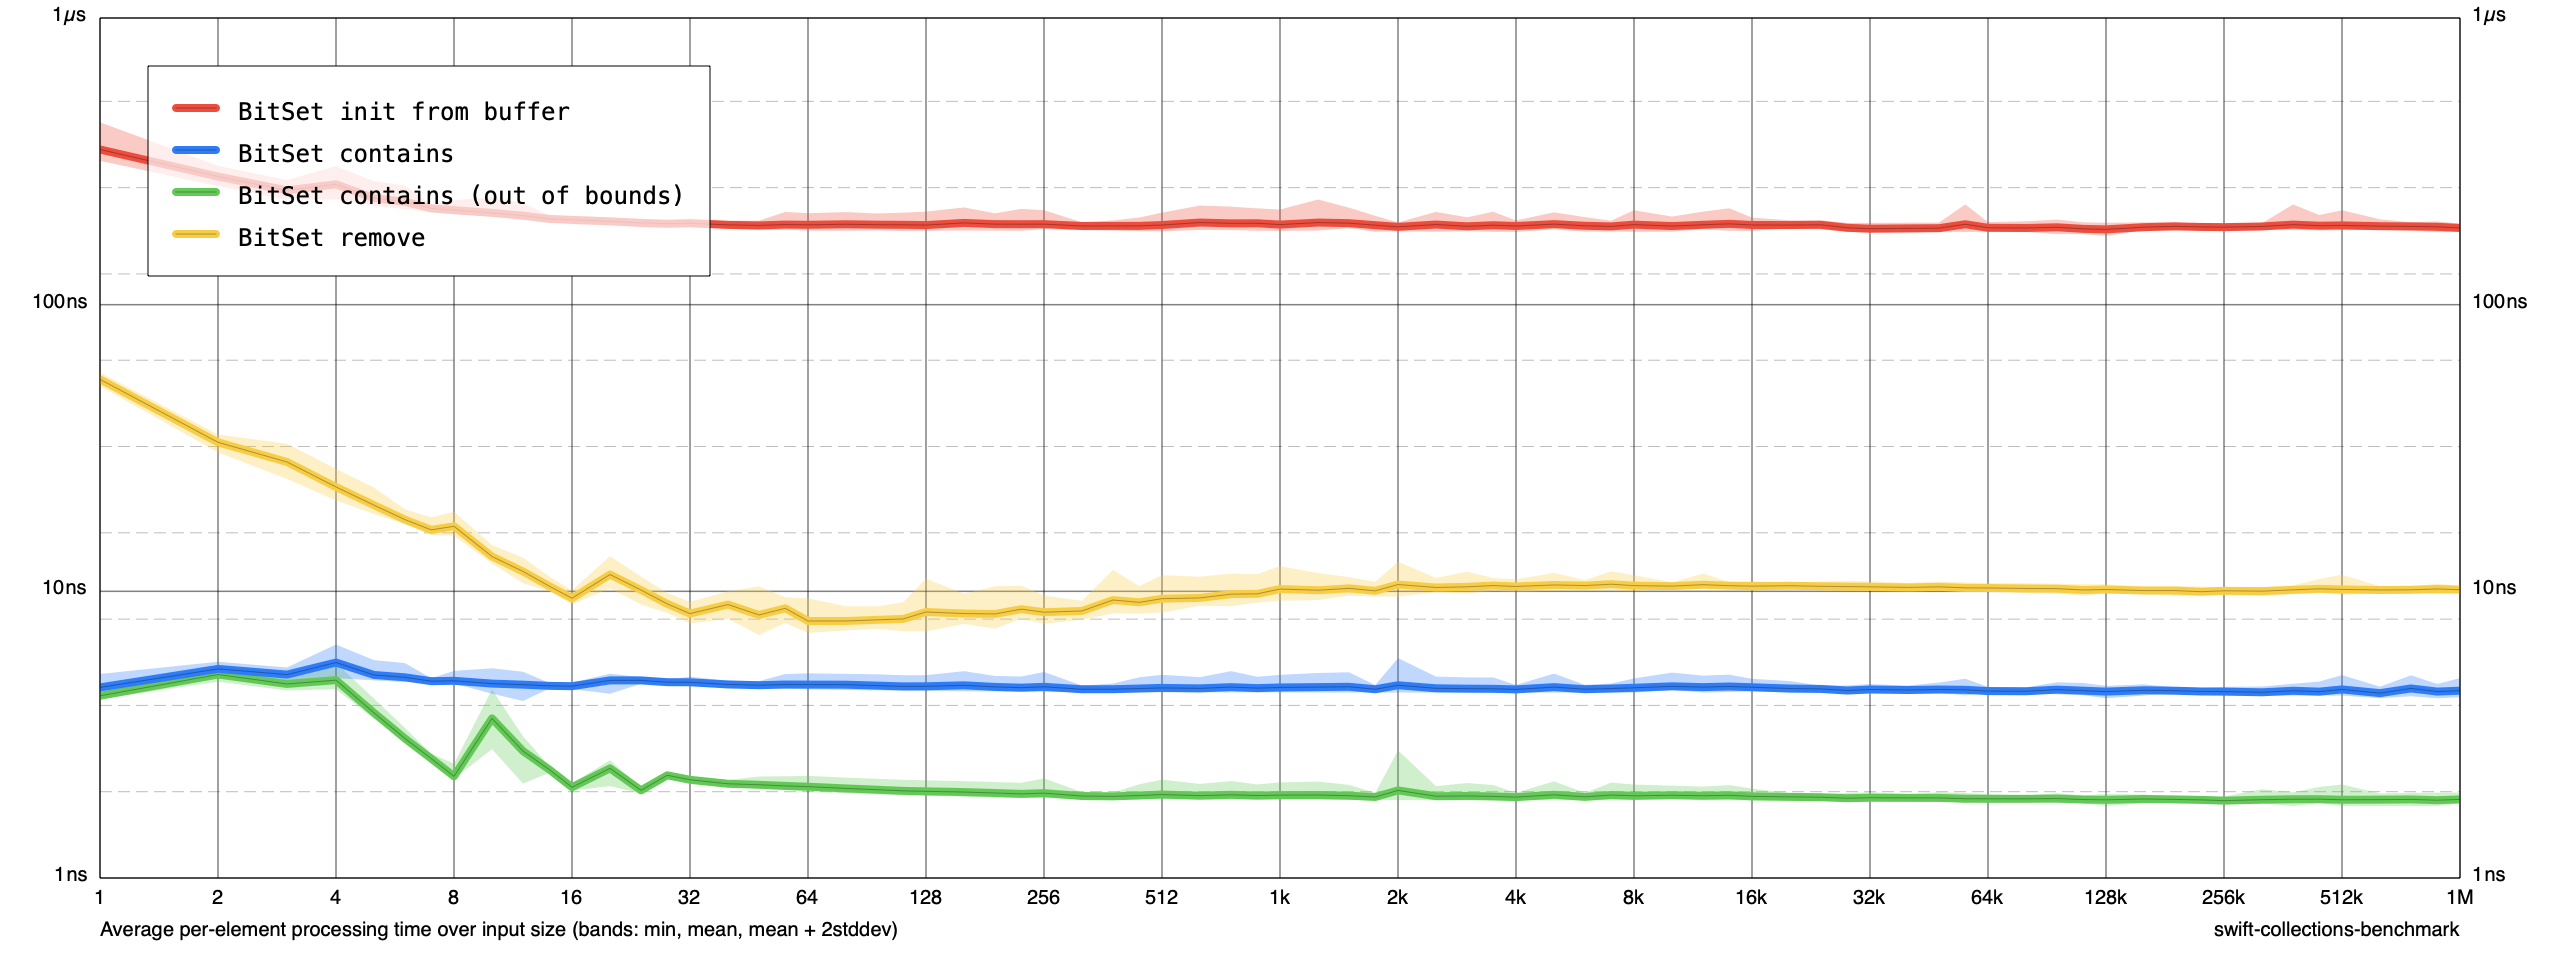
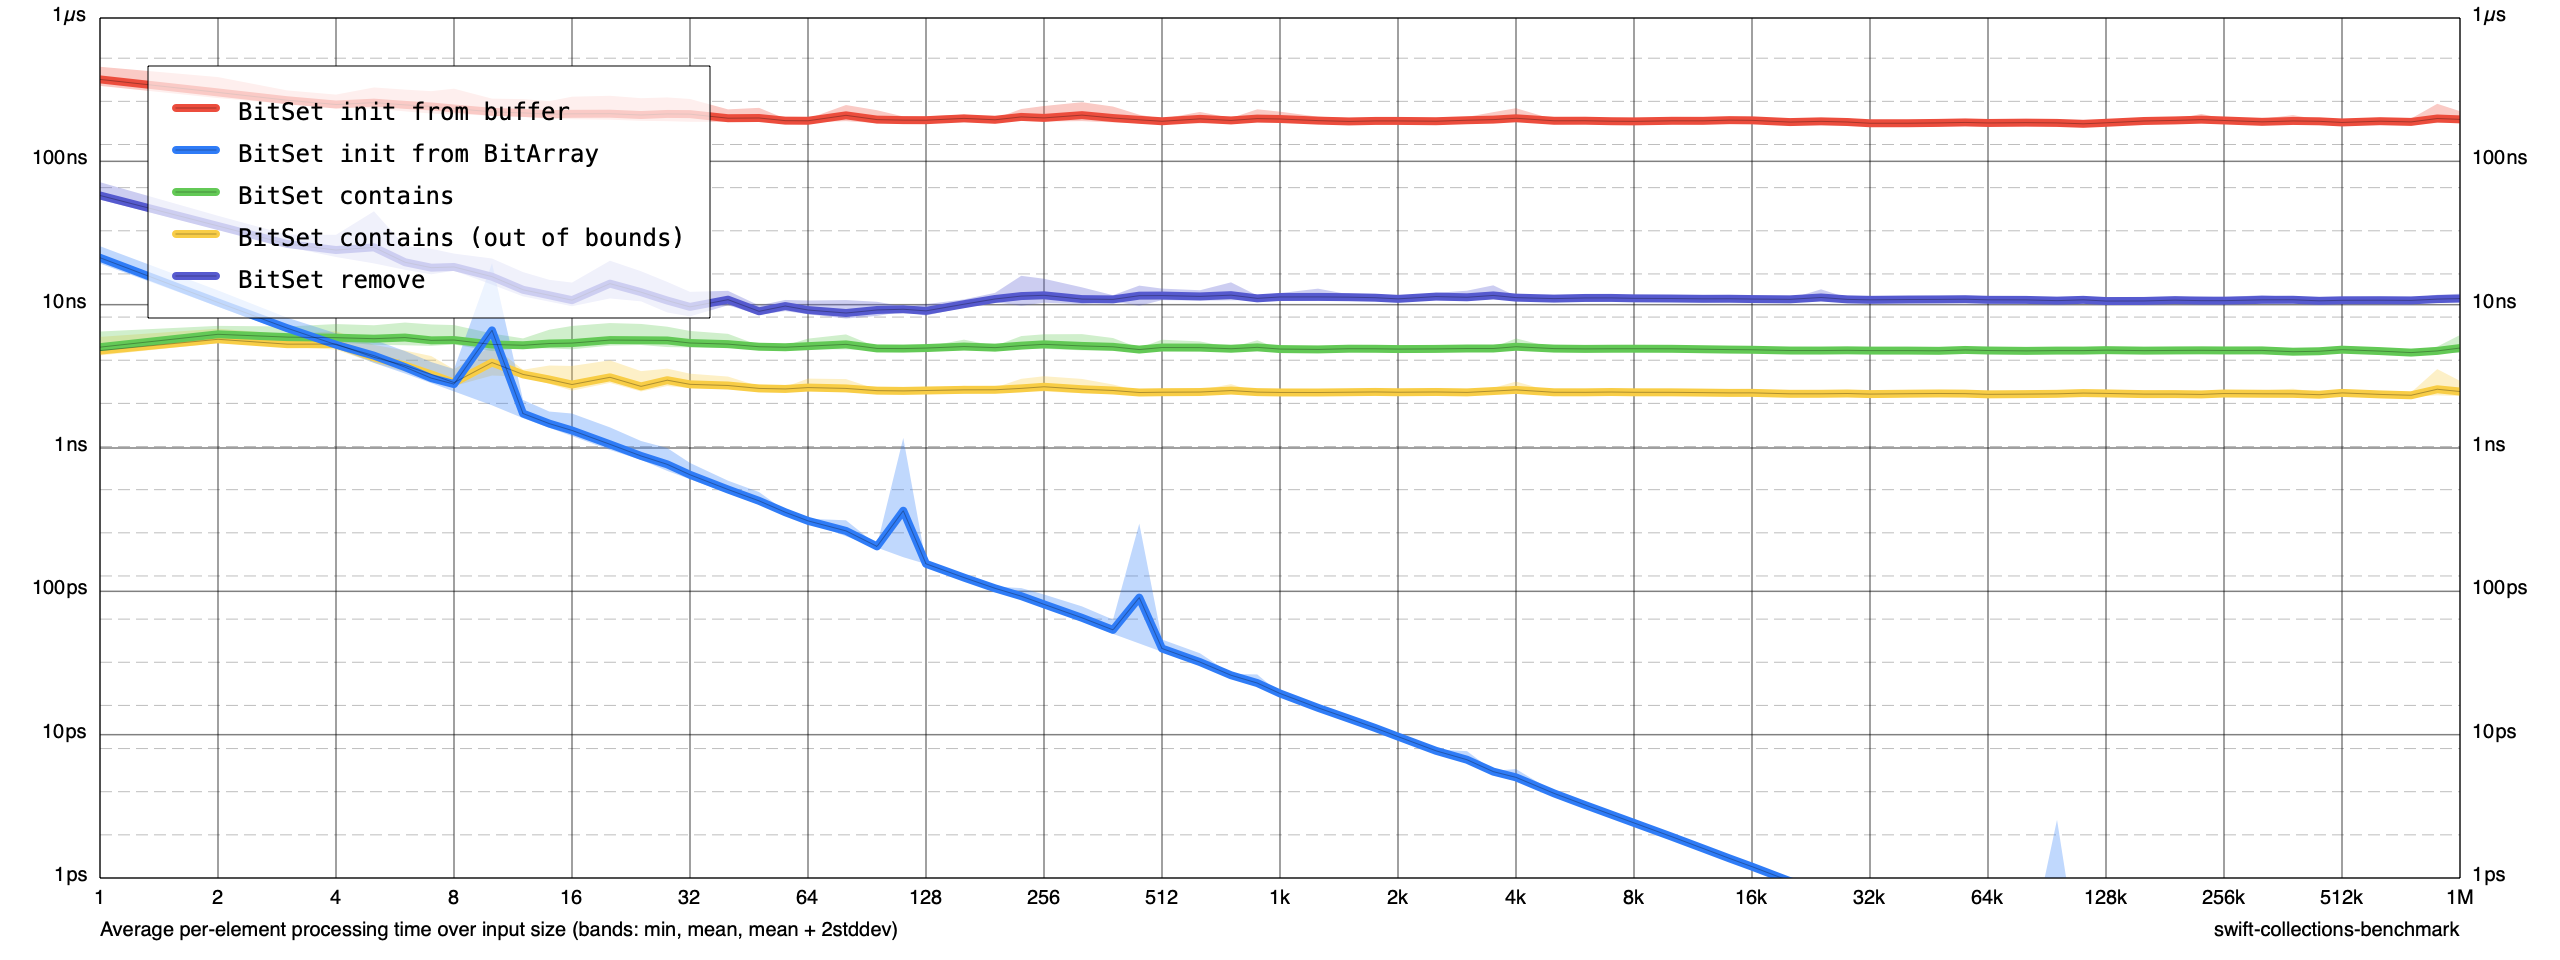
BitSet init from BitArray benchmark

diff --git a/Benchmarks/Benchmarks/BitsetBenchmarks.swift b/Benchmarks/Benchmarks/BitsetBenchmarks.swift
@@ -13,6 +13,7 @@ import CollectionsBenchmark
 import BitArrayModule
 
 extension Benchmark {
+  
   public mutating func addBitSetBenchmarks() {
     self.addSimple(
       title: "BitSet init from buffer",
@@ -23,9 +24,10 @@ extension Benchmark {
     
     self.add(
       title: "BitSet init from BitArray",
-      input: [Bool].self
+      input: [Int].self
     ) { input in
-      let bitArray = BitArray(input)
+      let boolInput = input.toBoolArrayByEvens()
+      let bitArray = BitArray(boolInput)
       return { timer in
         blackHole(BitSet(bitArray))
       }
@@ -71,3 +73,18 @@ extension Benchmark {
     }
   }
 }
+
+extension Collection where Element == Int {
+  fileprivate func toBoolArrayByEvens() -> [Bool] {
+    var boolArray: [Bool] = []
+    for element in self {
+      if(element%2 == 0) {
+        boolArray.append(true)
+      } else {
+        boolArray.append(false)
+      }
+    }
+    return boolArray
+  }
+}
+
